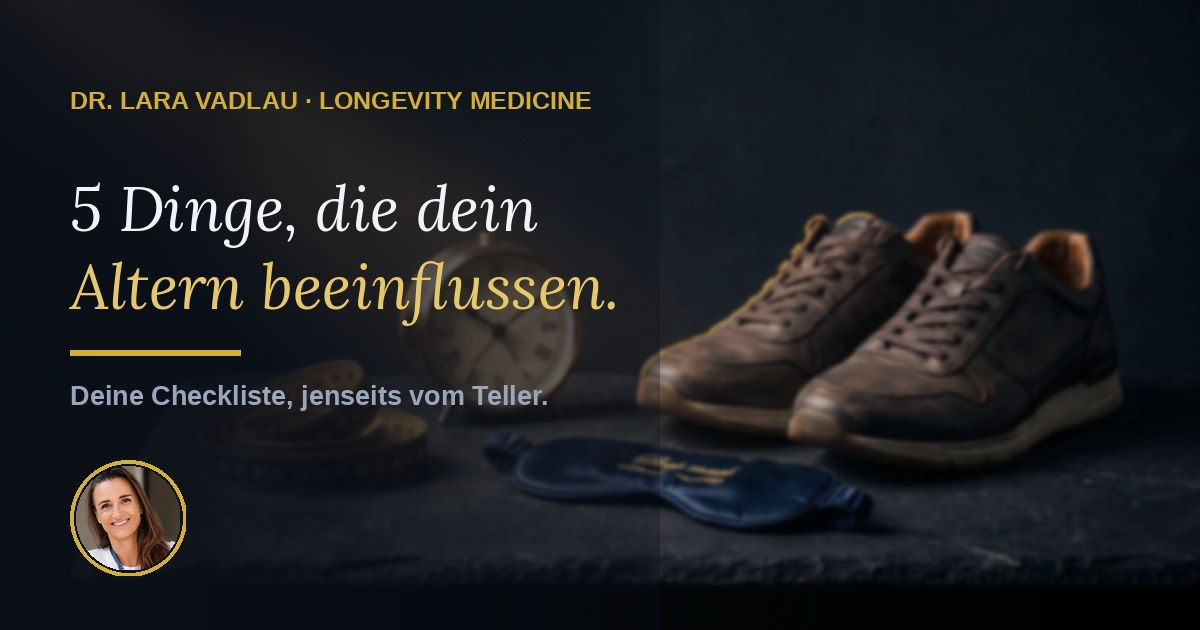
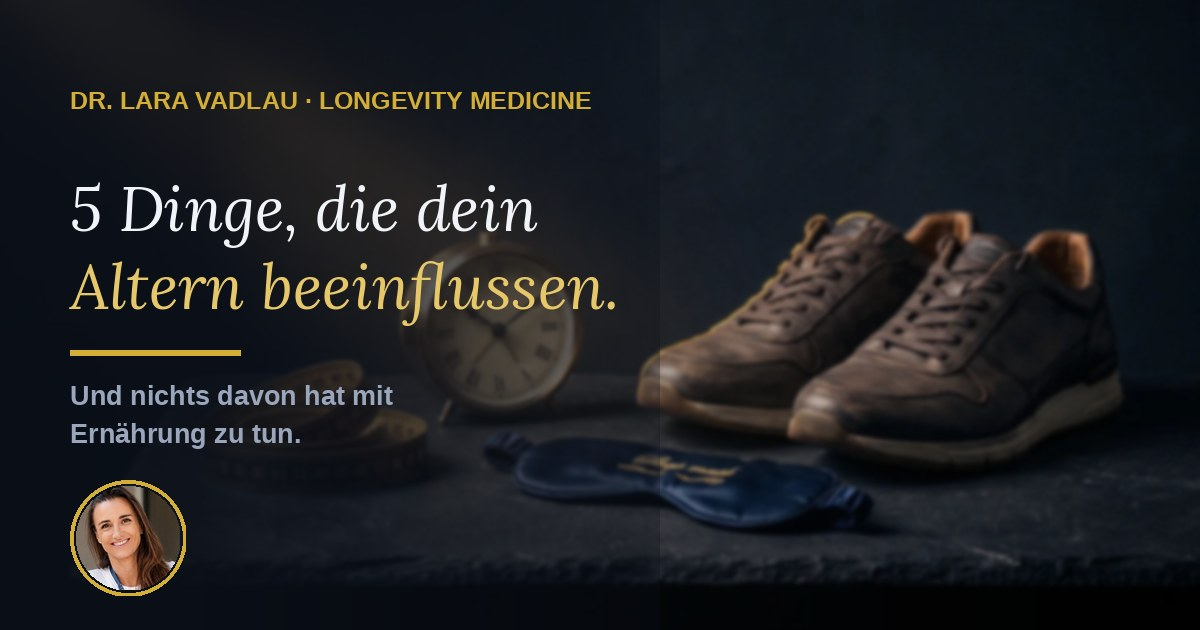
Neue Version: 5 Dinge ohne Ernaehrung, Erholung & Schlaf statt Sitzen

Changed region(s): [[0.0308, 0.6032, 0.4625, 0.9651]]

diff --git a/index.html b/index.html
@@ -4,19 +4,19 @@
 <meta charset="UTF-8">
 <meta name="viewport" content="width=device-width, initial-scale=1">
 <title>5 Dinge, die dein Altern beeinflussen | Dr. Lara Vadlau</title>
-<meta name="description" content="Die Checkliste von Dr. Lara Vadlau: 5 oft übersehene Faktoren, die dein Altern beeinflussen. Bauchfett, Sitzen, soziale Verbindung, Schlafapnoe und Dauerstress, mit konkreten Schritten ab heute.">
+<meta name="description" content="Die Checkliste von Dr. Lara Vadlau: 5 Dinge, die dein Altern beeinflussen, und nichts davon hat mit Ernährung zu tun. Bauchfett, soziale Verbindung, Schlafapnoe, Dauerstress und Schlaf, mit konkreten Schritten.">
 <meta property="og:type" content="article">
 <meta property="og:site_name" content="Dr. Lara Vadlau · Longevity Medicine">
 <meta property="og:locale" content="de_DE">
 <meta property="og:title" content="5 Dinge, die dein Altern beeinflussen">
-<meta property="og:description" content="Deine Checkliste, jenseits vom Teller. 5 oft übersehene Faktoren, ab heute beeinflussbar.">
+<meta property="og:description" content="Und nichts davon hat mit Ernährung zu tun. 5 Hebel, die du ab heute nutzen kannst.">
 <meta property="og:url" content="https://lara-altern.vercel.app">
 <meta property="og:image" content="https://lara-altern.vercel.app/og.jpg">
 <meta property="og:image:width" content="1200">
 <meta property="og:image:height" content="630">
 <meta name="twitter:card" content="summary_large_image">
 <meta name="twitter:title" content="5 Dinge, die dein Altern beeinflussen">
-<meta name="twitter:description" content="Deine Checkliste, jenseits vom Teller. 5 oft übersehene Faktoren, ab heute beeinflussbar.">
+<meta name="twitter:description" content="Und nichts davon hat mit Ernährung zu tun. 5 Hebel, die du ab heute nutzen kannst.">
 <meta name="twitter:image" content="https://lara-altern.vercel.app/og.jpg">
 <link rel="canonical" href="https://lara-altern.vercel.app">
 <meta name="theme-color" content="#0d131e">
@@ -188,10 +188,10 @@ footer .container{display:flex;flex-wrap:wrap;justify-content:space-between;gap:
     <div class="brand">Dr. Lara <span>Vadlau</span></div>
     <nav class="links">
       <a href="#f1">Bauchfett</a>
-      <a href="#f2">Sitzen</a>
-      <a href="#f3">Verbindung</a>
-      <a href="#f4">Schlafapnoe</a>
-      <a href="#f5">Stress</a>
+      <a href="#f2">Verbindung</a>
+      <a href="#f3">Schlafapnoe</a>
+      <a href="#f4">Stress</a>
+      <a href="#f5">Schlaf</a>
     </nav>
   </div>
 </header>
@@ -201,8 +201,8 @@ footer .container{display:flex;flex-wrap:wrap;justify-content:space-between;gap:
   <div class="container">
     <div class="eyebrow reveal">Longevity-Checkliste · Vertiefung zum Reel</div>
     <h1 class="reveal">5 Dinge, die dein <em>Altern</em> beeinflussen.</h1>
-    <p class="sub reveal">Deine Checkliste, jenseits vom Teller.</p>
-    <p class="lede reveal">Gesund altern ist mehr als die richtige Ernährung. Diese fünf Faktoren werden oft übersehen, dabei kannst du jeden einzelnen ab heute beeinflussen. Geh die Liste durch und hak ab, was du schon umsetzt.</p>
+    <p class="sub reveal">Und nichts davon hat mit Ernährung zu tun.</p>
+    <p class="lede reveal">Gesund altern ist mehr als die richtige Ernährung. Hake ab, was du schon umsetzt: Jeder freie Kasten ist ein Hebel, den du ab heute nutzen kannst.</p>
     <div class="byline reveal">
       <div class="avatar"><img src="lara-avatar.jpg" alt="Dr. Lara Vadlau"></div>
       <div>Von <b>Dr. Lara Vadlau</b> · Longevity Medicine</div>
@@ -215,7 +215,7 @@ footer .container{display:flex;flex-wrap:wrap;justify-content:space-between;gap:
   </div>
 </section>
 
-<!-- FAKTOR 1 + 2 -->
+<!-- FAKTOREN 1-3 -->
 <section id="f1">
   <div class="container">
     <div class="sec-head reveal">
@@ -227,11 +227,12 @@ footer .container{display:flex;flex-wrap:wrap;justify-content:space-between;gap:
       <div class="num">01</div>
       <div>
         <h3>Bauchfett</h3>
-        <p class="why">Bauchfett ist biologisch aktiv, setzt entzündungsfördernde Botenstoffe frei und hängt mit Insulinresistenz und Herz-Kreislauf-Risiko zusammen. Die Waage allein zeigt nicht, wo das Fett sitzt.</p>
+        <p class="why">Biologisch aktiv, steht mit Insulinresistenz und Herz-Kreislauf-Risiko in Verbindung.</p>
         <ul>
-          <li><b>Taille messen:</b> Maßband auf Nabelhöhe. Orientierung: Frauen unter 80 cm, Männer unter 94 cm. Faustregel: Taille unter der Hälfte deiner Körpergröße.</li>
-          <li><b>2x pro Woche Krafttraining plus Ausdauer:</b> Muskeln sind der beste Gegenspieler von Bauchfett.</li>
-          <li><b>Schlaf und Alkohol im Blick:</b> Beides beeinflusst, wo dein Körper Fett speichert.</li>
+          <li><b>Taille messen:</b> auf Höhe des Bauchnabels, morgens, nach dem Ausatmen.</li>
+          <li><b>Faustregel:</b> Taillenumfang kleiner als die halbe Körpergröße.</li>
+          <li><b>Erhöhtes Risiko</b> ab ca. 80 cm (Frauen) bzw. 94 cm (Männer).</li>
+          <li><b>2x pro Woche Krafttraining</b> plus tägliche Bewegung.</li>
         </ul>
       </div>
     </div>
@@ -239,12 +240,13 @@ footer .container{display:flex;flex-wrap:wrap;justify-content:space-between;gap:
     <div class="block reveal" id="f2">
       <div class="num">02</div>
       <div>
-        <h3>Langes Sitzen</h3>
-        <p class="why">Auch wer regelmäßig trainiert, sollte langes Sitzen unterbrechen. Stundenlange Inaktivität beeinflusst den Stoffwechsel, unabhängig vom Sport am Abend.</p>
+        <h3>Soziale Verbindung</h3>
+        <p class="why">Einsamkeit ist mit höherem Herz-Kreislauf-Risiko und früherer Sterblichkeit verbunden.</p>
         <ul>
-          <li><b>Alle 30 bis 60 Minuten aufstehen</b> und 2 bis 5 Minuten gehen. Tipp: Timer am Handy oder an der Uhr stellen.</li>
-          <li><b>Bewegung einbauen:</b> Telefonate im Gehen führen, Stehtisch nutzen, Treppe statt Lift.</li>
-          <li><b>Nach dem Essen 10 Minuten spazieren:</b> Das hilft auch deinem Blutzucker.</li>
+          <li><b>Mindestens ein echtes Gespräch pro Tag,</b> nicht nur Chat.</li>
+          <li><b>Ein fester Termin pro Woche</b> mit Menschen, die dir guttun.</li>
+          <li><b>Gemeinschaft suchen:</b> Verein, Sportgruppe, Ehrenamt.</li>
+          <li><b>Ehrlich fragen:</b> Wann habe ich mich zuletzt verbunden gefühlt?</li>
         </ul>
       </div>
     </div>
@@ -252,13 +254,20 @@ footer .container{display:flex;flex-wrap:wrap;justify-content:space-between;gap:
     <div class="block reveal" id="f3">
       <div class="num">03</div>
       <div>
-        <h3>Soziale Verbindung</h3>
-        <p class="why">Einsamkeit und soziale Isolation sind mit höherem Risiko für Herz-Kreislauf-Erkrankungen und vorzeitige Sterblichkeit verbunden. Soziale Kontakte sind kein Nice-to-have.</p>
-        <ul>
-          <li><b>Feste Termine mit Menschen, die dir guttun:</b> wöchentliches Telefonat, gemeinsames Essen, Spaziergang.</li>
-          <li><b>Gemeinschaft suchen:</b> Verein, Sportgruppe, Chor, Ehrenamt.</li>
-          <li><b>Einsamkeit ernst nehmen</b> und darüber sprechen, auch mit Ärztin oder Arzt.</li>
-        </ul>
+        <h3>Schlafapnoe</h3>
+        <p class="why">Atemaussetzer setzen den Körper nachts immer wieder in Alarmbereitschaft.</p>
+        <div class="selfcheck">
+          <span class="l">Kurzer Selbstcheck</span>
+          <ol>
+            <li>Schnarchst du laut oder wurden Atemaussetzer bemerkt?</li>
+            <li>Bist du tagsüber müde, obwohl du genug schläfst?</li>
+            <li>Morgendliche Kopfschmerzen oder hoher Blutdruck?</li>
+          </ol>
+        </div>
+        <div class="warn" style="margin-top:14px">
+          <h4>Ein Ja reicht</h4>
+          <p>Dann ärztlich abklären lassen, zum Beispiel im <b>Schlaflabor</b>.</p>
+        </div>
       </div>
     </div>
   </div>
@@ -271,50 +280,47 @@ footer .container{display:flex;flex-wrap:wrap;justify-content:space-between;gap:
   </div>
 </section>
 
-<!-- FAKTOR 4 + 5 -->
+<!-- FAKTOREN 4-5 -->
 <section id="f4">
   <div class="container">
     <div class="block reveal">
       <div class="num">04</div>
       <div>
-        <h3>Schlafapnoe</h3>
-        <p class="why">Bei Schlafapnoe setzt die Atmung nachts immer wieder aus. Die Sauerstoffwerte sinken, der Körper gerät in Alarmbereitschaft. Das belastet langfristig Herz und Gefäße. Viele Betroffene wissen nichts davon.</p>
-        <div class="selfcheck">
-          <span class="l">Kurzer Selbstcheck</span>
-          <ol>
-            <li>Schnarchst du laut, sodass man es durch eine Tür hört?</li>
-            <li>Wurden bei dir nächtliche Atemaussetzer beobachtet?</li>
-            <li>Bist du tagsüber oft müde, obwohl du genug geschlafen hast?</li>
-            <li>Hast du Bluthochdruck oder wachst du mit Kopfschmerzen auf?</li>
-          </ol>
-        </div>
-        <div class="warn" style="margin-top:14px">
-          <h4>Trifft mehr als eine Frage zu?</h4>
-          <p>Dann lass es ärztlich abklären: <b>Hausärztin oder Hausarzt, HNO oder Schlafmedizin</b>. Oft reicht zuerst eine Messung zu Hause.</p>
-        </div>
+        <h3>Dauerstress</h3>
+        <p class="why">Beeinflusst Hormone, Nervensystem, Blutdruck und Stoffwechsel.</p>
+        <ul>
+          <li><b>Blutdruck regelmäßig messen.</b></li>
+          <li><b>Feste Pausen im Alltag,</b> nicht erst am Wochenende.</li>
+          <li><b>2 bis 5 Minuten langsam atmen:</b> Ausatmung länger als Einatmung.</li>
+          <li><b>Ehrlich fragen:</b> Was raubt dir dauerhaft Energie, und was davon kannst du ändern?</li>
+        </ul>
       </div>
     </div>
 
     <div class="block reveal" id="f5">
       <div class="num">05</div>
       <div>
-        <h3>Dauerstress und fehlende Erholung</h3>
-        <p class="why">Dauerstress beeinflusst Hormone, Nervensystem, Blutdruck und Stoffwechsel. Erholung ist kein Luxus, sondern Teil eines gesunden Lebensstils.</p>
+        <h3>Erholung &amp; Schlaf</h3>
+        <p class="why">Erholung ist kein Luxus, sondern Teil eines gesunden Lebensstils.</p>
         <ul>
-          <li><b>Täglich eine echte Pause ohne Handy,</b> auch wenn es nur 10 Minuten sind.</li>
-          <li><b>Langsam ausatmen:</b> Ein paar Minuten ruhig atmen, die Ausatmung länger als die Einatmung.</li>
-          <li><b>Raus in die Natur,</b> am besten mit Bewegung und Tageslicht.</li>
-          <li><b>Feierabend definieren:</b> Mails und Bildschirm zu einer festen Uhrzeit aus.</li>
-          <li><b>Hilfe holen,</b> wenn Stress über Wochen nicht weniger wird.</li>
+          <li><b>7 bis 9 Stunden Schlaf</b> anpeilen.</li>
+          <li><b>Feste Zeiten zum Schlafen und Aufstehen,</b> auch am Wochenende.</li>
+          <li><b>Bildschirm weg</b> 30 bis 60 Minuten vor dem Schlafen.</li>
+          <li><b>Kurze Pausen im Tag bewusst einbauen,</b> ohne Handy.</li>
         </ul>
       </div>
+    </div>
+
+    <div class="callout reveal" style="margin-top:30px">
+      <div class="l">Dein nächster Schritt</div>
+      <p>Such dir nur einen leeren Kasten aus und setze ihn diese Woche um. Kleine Veränderungen, konsequent gemacht, schlagen große Vorsätze.</p>
     </div>
 
     <p class="quote reveal">„Altern passiert nicht nur am Teller. Es passiert in deinem Alltag, jeden Tag, und genau dort kannst du ansetzen."</p>
 
     <div class="book reveal">
       <div class="l">Mehr dazu in meinem Buch</div>
-      <p>Warum wir Altern falsch verstehen und was du wirklich beeinflussen kannst: Das liest du in <a href="https://hi.switchy.io/10PTn" target="_blank" rel="noopener" style="color:var(--gold-soft);text-decoration:underline"><b>Die Alterslüge</b></a>.</p>
+      <p>Was wirklich bestimmt, wie du alterst, wissenschaftlich ehrlich eingeordnet: Das liest du in <a href="https://hi.switchy.io/10PTn" target="_blank" rel="noopener" style="color:var(--gold-soft);text-decoration:underline"><b>Die Alterslüge</b></a>.</p>
       <a href="https://hi.switchy.io/10PTn" target="_blank" rel="noopener" style="display:inline-block;margin-top:16px;background:linear-gradient(135deg,var(--gold),var(--gold-soft));color:#1a1206;font-weight:600;font-size:14.5px;padding:12px 26px;border-radius:999px;text-decoration:none;box-shadow:0 8px 22px rgba(212,175,55,.22)">Jetzt lesen &rarr;</a>
     </div>
   </div>
